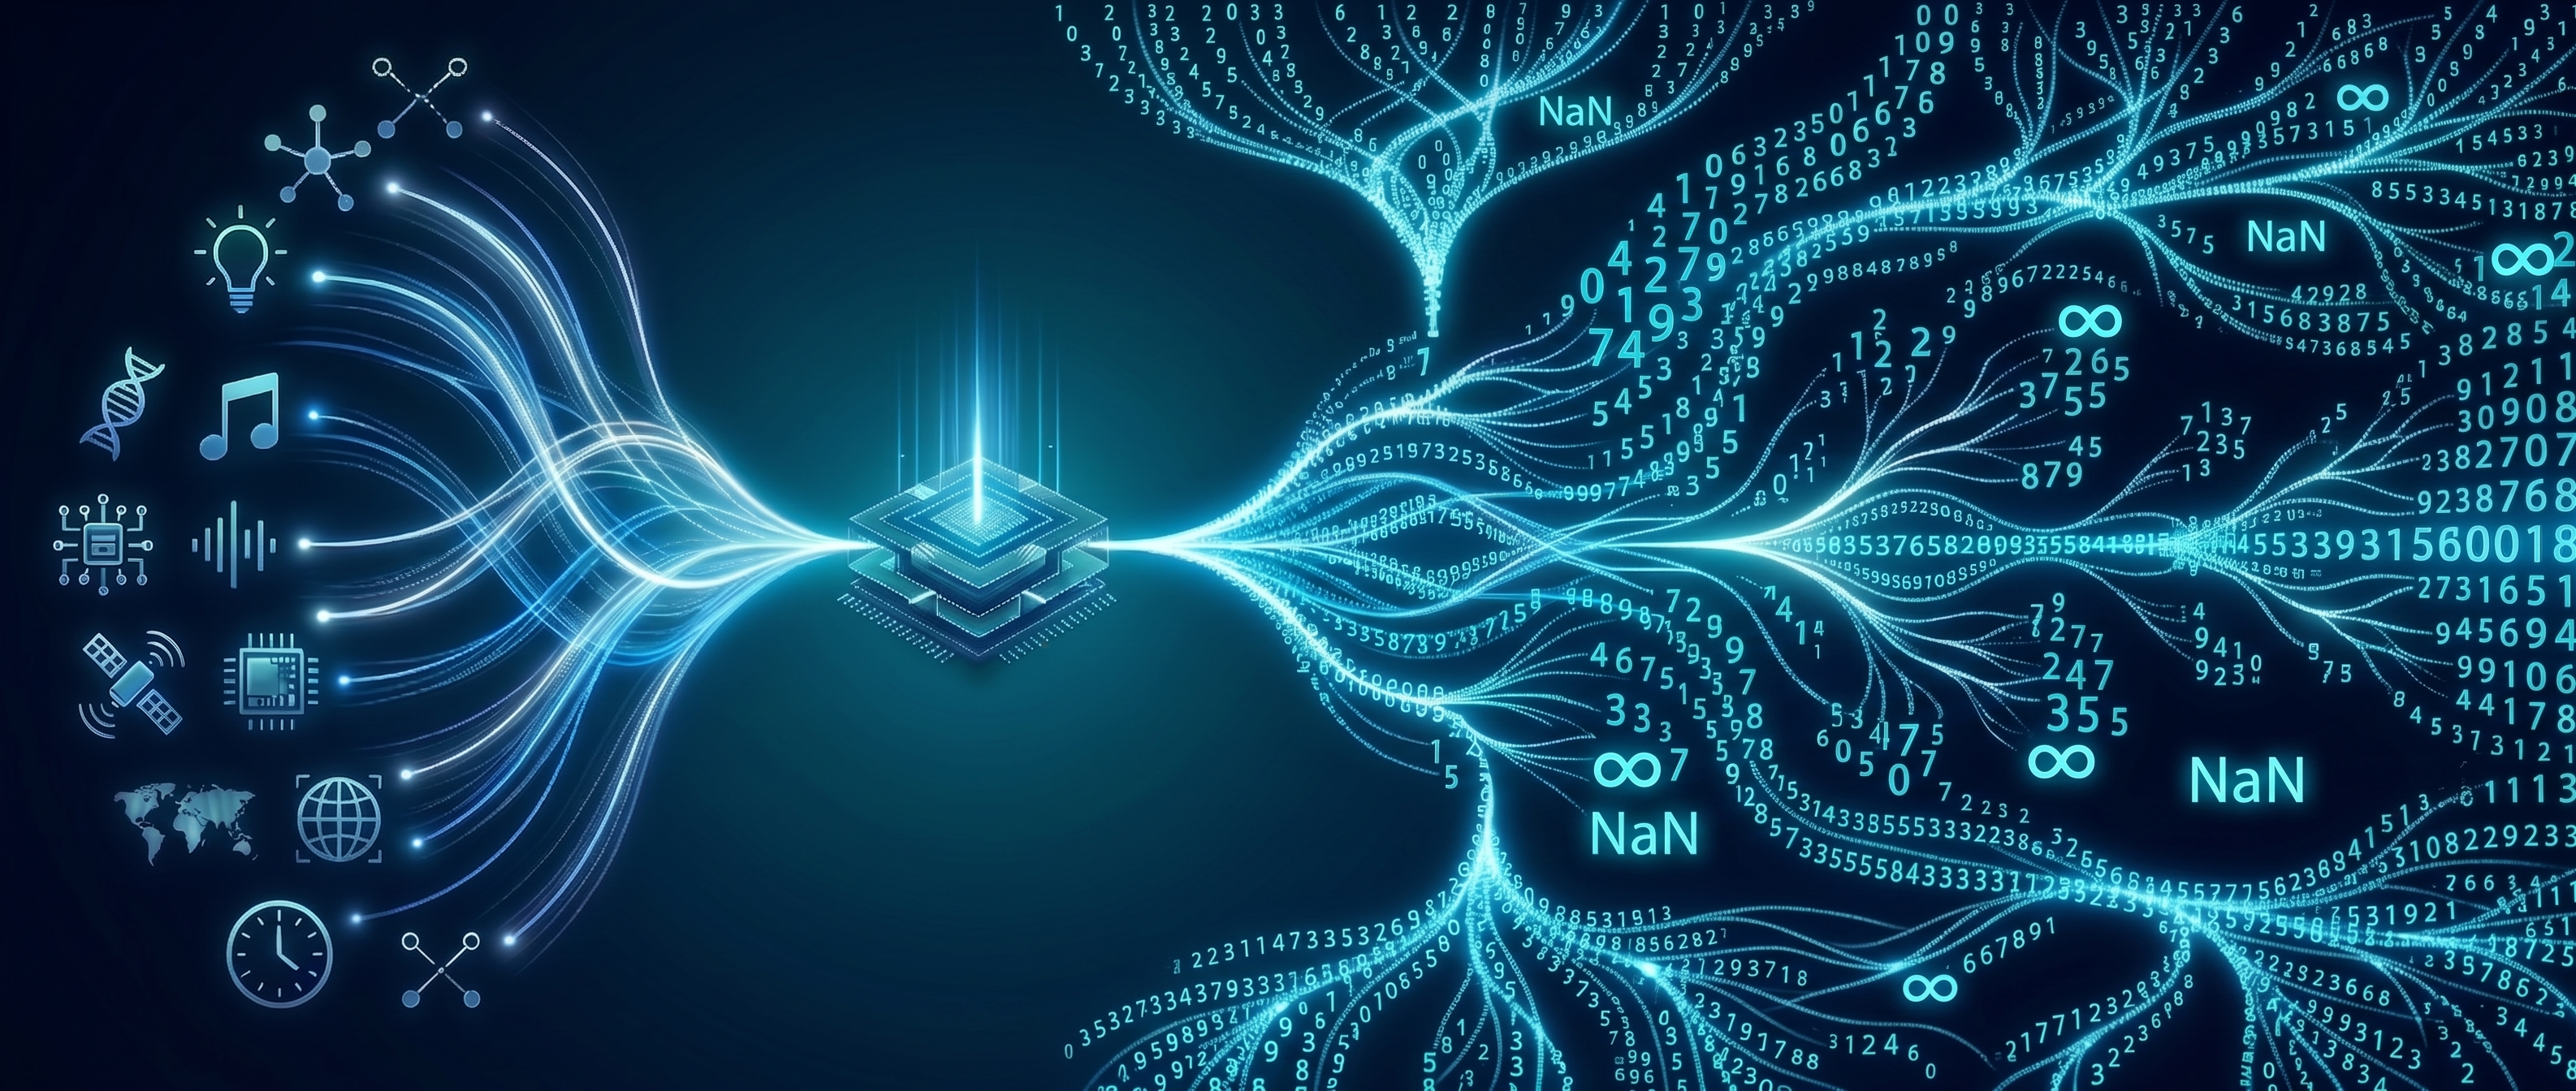
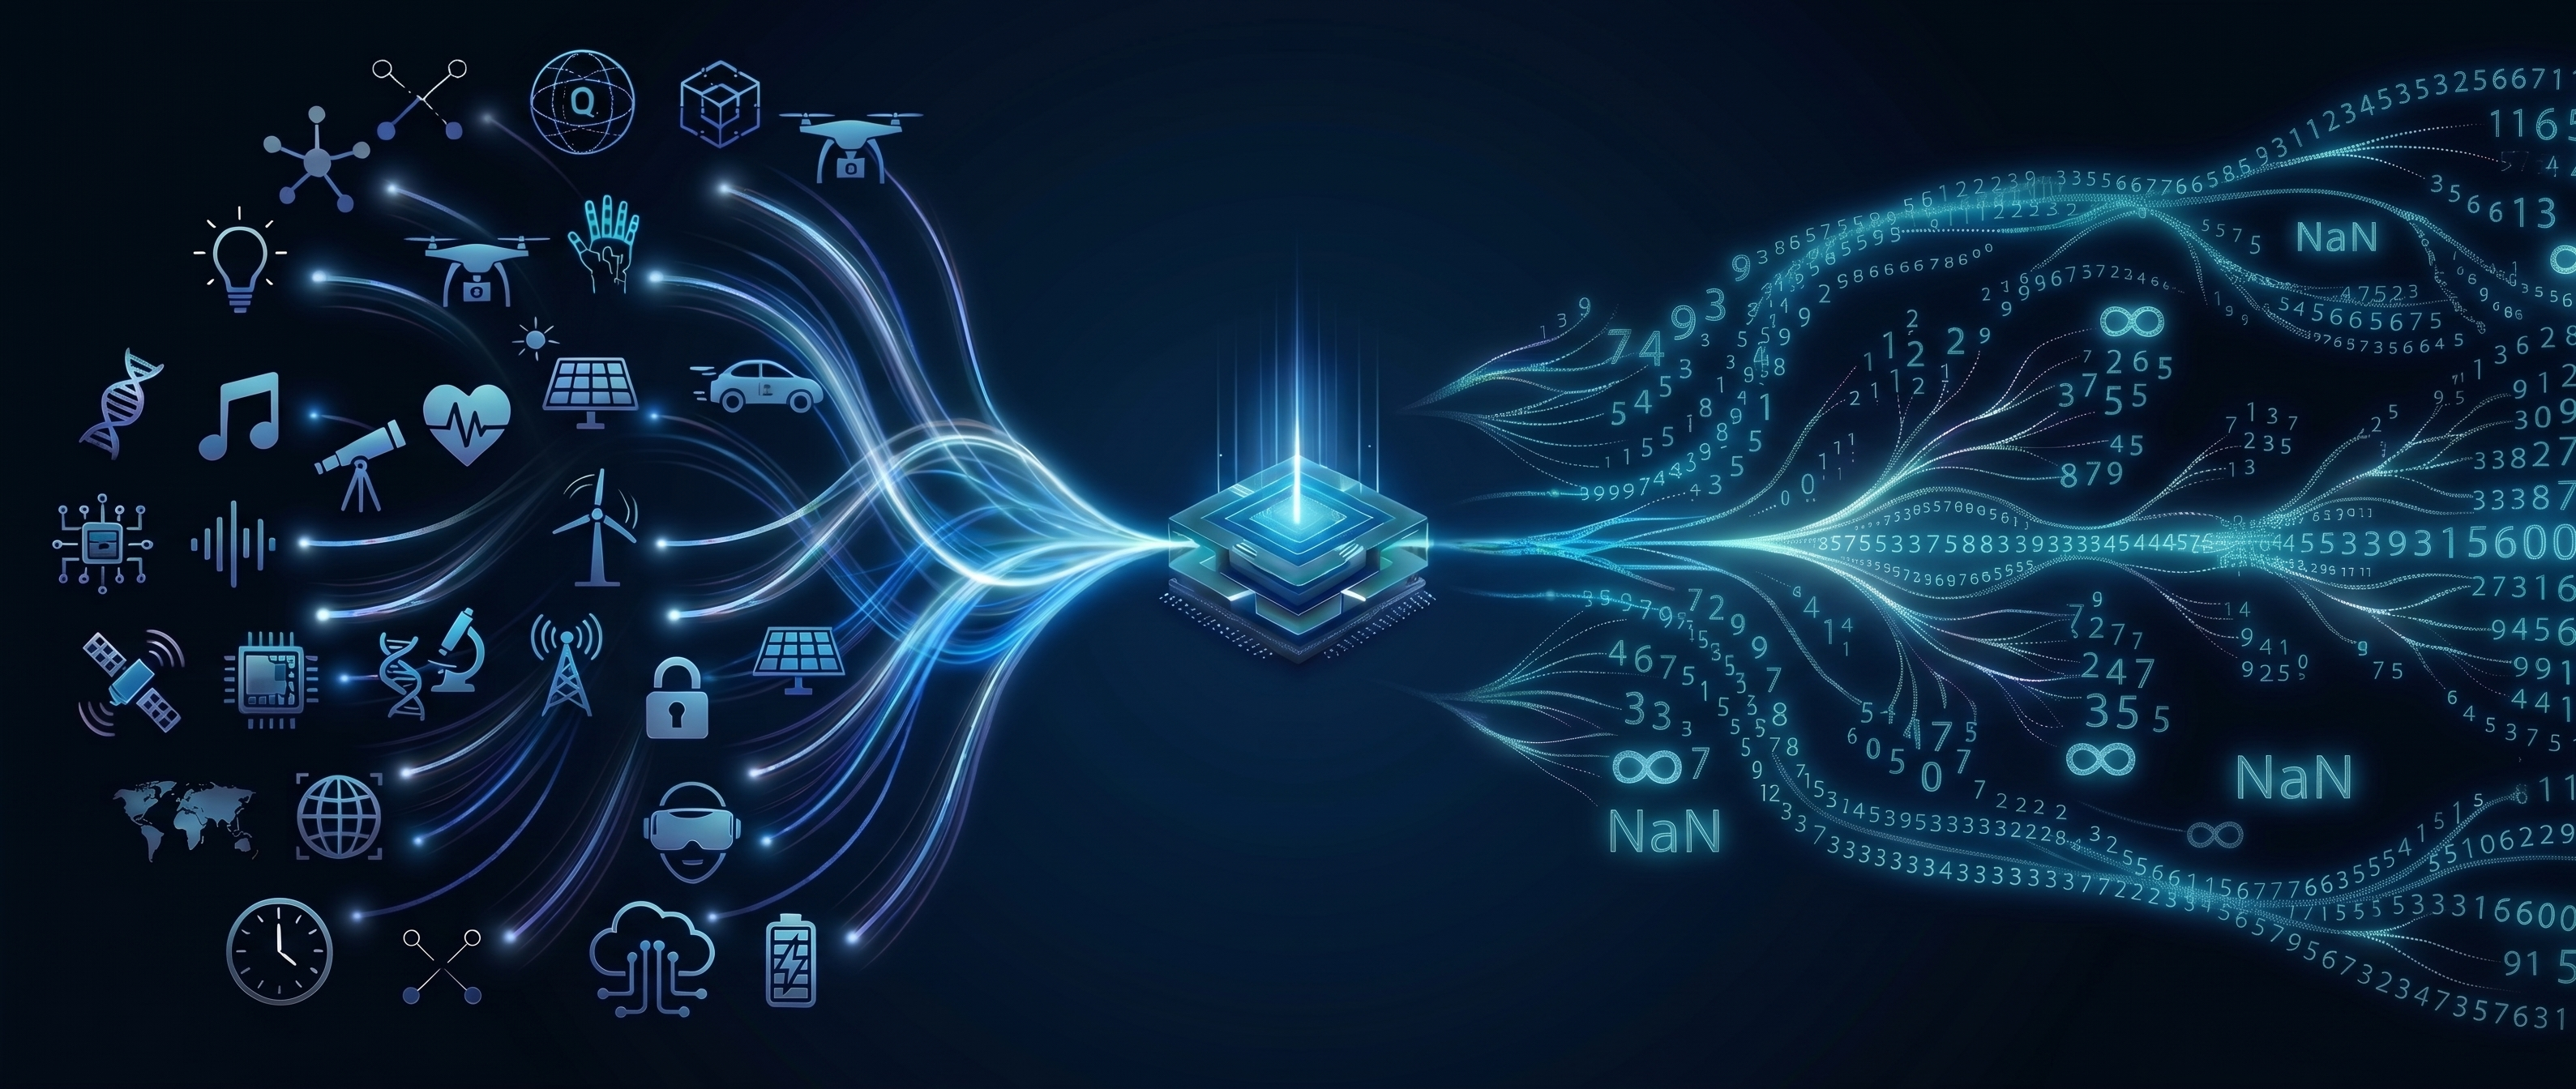
Configure custom domain qim-paper.io and use new pic
PiperOrigin-RevId: 933712330

diff --git a/docs/index.md b/docs/index.md
@@ -462,7 +462,7 @@ Pretraining data sources are listed in the paper.
 
 We thank Yutian Chen, Chen Sun, Vinh Tran, Alexander Rush, Michael Brenner, Dara Bahri, Yifeng Lu, Jonathan Lai, and Zhiyu Wei for early feedback, reviewing, and support of the manuscript.
 
-We further thank Chen Liang, Oscar Li, Fred Zhang, Xuezhi Wang, Erik Lin, Esteban Real, Bangding (Jeffrey) Yang, Jarrod Kahn, Yiding Jiang, Samuel Sokota, Yan (Bill) Huang, Victor Reis, Phitchaya Mangpo Phothilimthana, Jörg Bornschein, Tejas Karkhanis, Amir Yazdan Bakhsh, Sami Abu-El-Haija, Erik Lin, Tung Nguyen, Eric Tang, Arissa Wongpanich, Shane Gu, Yingjie Miao, Qiuyi Zhang, Uri Alon, Shao-Hua Sun, Kuang-Huei Lee, Adrian N. Reyes, Zi Wang, Xinyun Chen, Aviral Kumar, Ke Xue, Rong-Xi Tan, Chansoo Lee, Michal Lukasik, Sagi Perel, and Daniel Golovin for relevant discussions.
+We further thank Chen Liang, Oscar Li, Fred Zhang, Xuezhi Wang, Erik Lin, Esteban Real, Bangding (Jeffrey) Yang, Jarrod Kahn, Yiding Jiang, Samuel Sokota, Yan (Bill) Huang, Victor Reis, Phitchaya Mangpo Phothilimthana, Jörg Bornschein, Sharad Vikram, Tejas Karkhanis, Amir Yazdan Bakhsh, Sami Abu-El-Haija, Tung Nguyen, Eric Tang, Arissa Wongpanich, Shane Gu, Yingjie Miao, Qiuyi Zhang, Uri Alon, Shao-Hua Sun, Kuang-Huei Lee, Adrian N. Reyes, Zi Wang, Xinyun Chen, Aviral Kumar, Ke Xue, Rong-Xi Tan, Chansoo Lee, Michal Lukasik, Sagi Perel, and Daniel Golovin for relevant discussions.
 
 We finally thank Parthasarathy Ranganathan, Amin Vahdat, Craig Donner, Martin Dixon, Shibl Mourad, Zoubin Ghahramani, and Benoit Schillings for support.
 